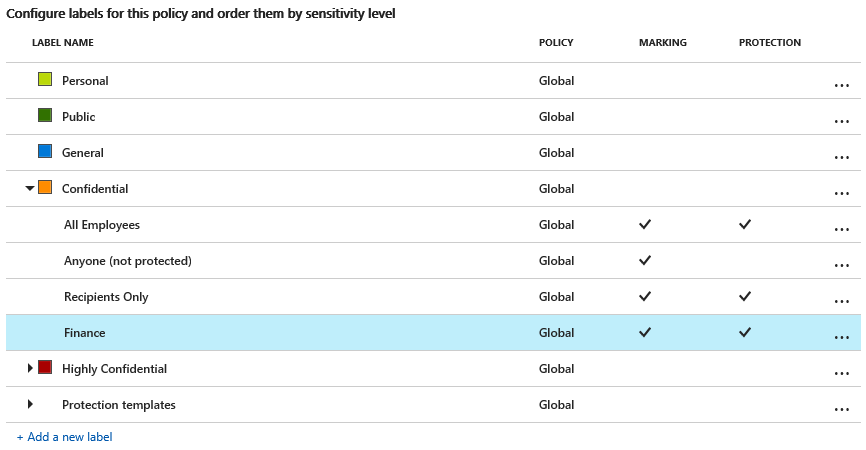
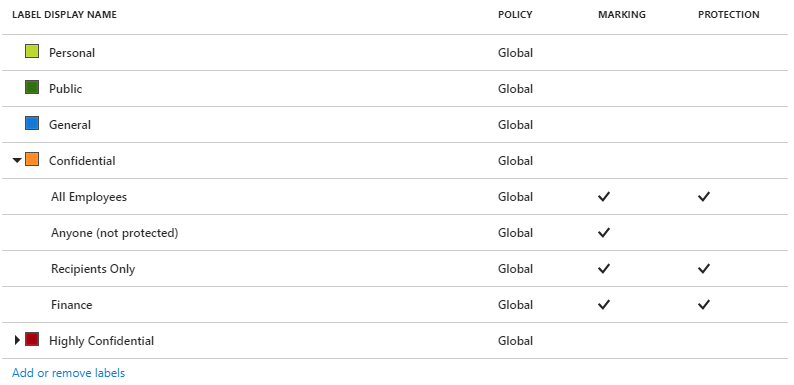
update screenshots for new UI, labels

diff --git a/Azure-RMSDocs/get-started/infoprotect-tutorial-step2.md b/Azure-RMSDocs/get-started/infoprotect-tutorial-step2.md
@@ -64,6 +64,8 @@ For our tutorial, we'll change a couple of those policy settings so that you can
     
     You might not need to change this setting because the default depends on when you obtained your subscription. We will use custom permissions later in the tutorial to share a protected document with a user that you specify when you right-click the file from File Explorer.
 
+4. Select **Save** on this **Policy: Global** blade, and if you are prompted to confirm your action, select **OK**. Close this blade.
+
 ## Creating a new label for protection, visual markers, and a condition to prompt for classification
 
 We'll now create a new sublabel for **Confidential**.
@@ -134,15 +136,13 @@ We'll now create a new sublabel for **Confidential**.
 
 12. In the **Enter notes for internal housekeeping** box, type **For testing purposes only**.
 
-13. Click **Save** on this **Sub-label** blade. The new label is created and saved, but not yet added to a policy.
+13. Click **Save** on this **Sub-label** blade. If you are prompted to confirm, click **OK**. The new label is created and saved, but not yet added to a policy.
 
-14. From the **CLASSIFICATIONS** > **Policies** menu option: Select **Global** again, and then select **Add or remove labels**.
+14. From the **CLASSIFICATIONS** > **Policies** menu option: Select **Global** again, and then select the **Add or remove labels** link after the labels.
 
 15. From the **Policy: Add or remove labels** blade, select the label that you have just created, the sublabel named **Finance**, and click **OK**.
 
-16. On the **Policy: Global** blade, click **Save** again.
-    
-    You now see your new sublabel in your global policy, which is configured for visual markings and protection. For example:
+16. On the **Policy: Global** blade, you now see your new sublabel in your global policy, which is configured for visual markings and protection. For example:
 
     ![Azure Information Protection quick start tutorial step 3 - default policy configured](../media/info-protect-policy-configuredv2.png)
     
@@ -150,6 +150,9 @@ We'll now create a new sublabel for **Confidential**.
     
     ![Azure Information Protection quick start tutorial step 3 - settings configured](../media/info-protect-settings-configuredv2.png)
     
+
+17. Click **Save** on this **Policy: Global** blade, and if prompted to confirm, click **OK**.
+
 You can either close the Azure portal, or leave it open to try additional configuration options after you have finished this tutorial.
 
 Now that you've had a look at the default policy and made some changes, the next step is to install the Azure Information Protection client.
